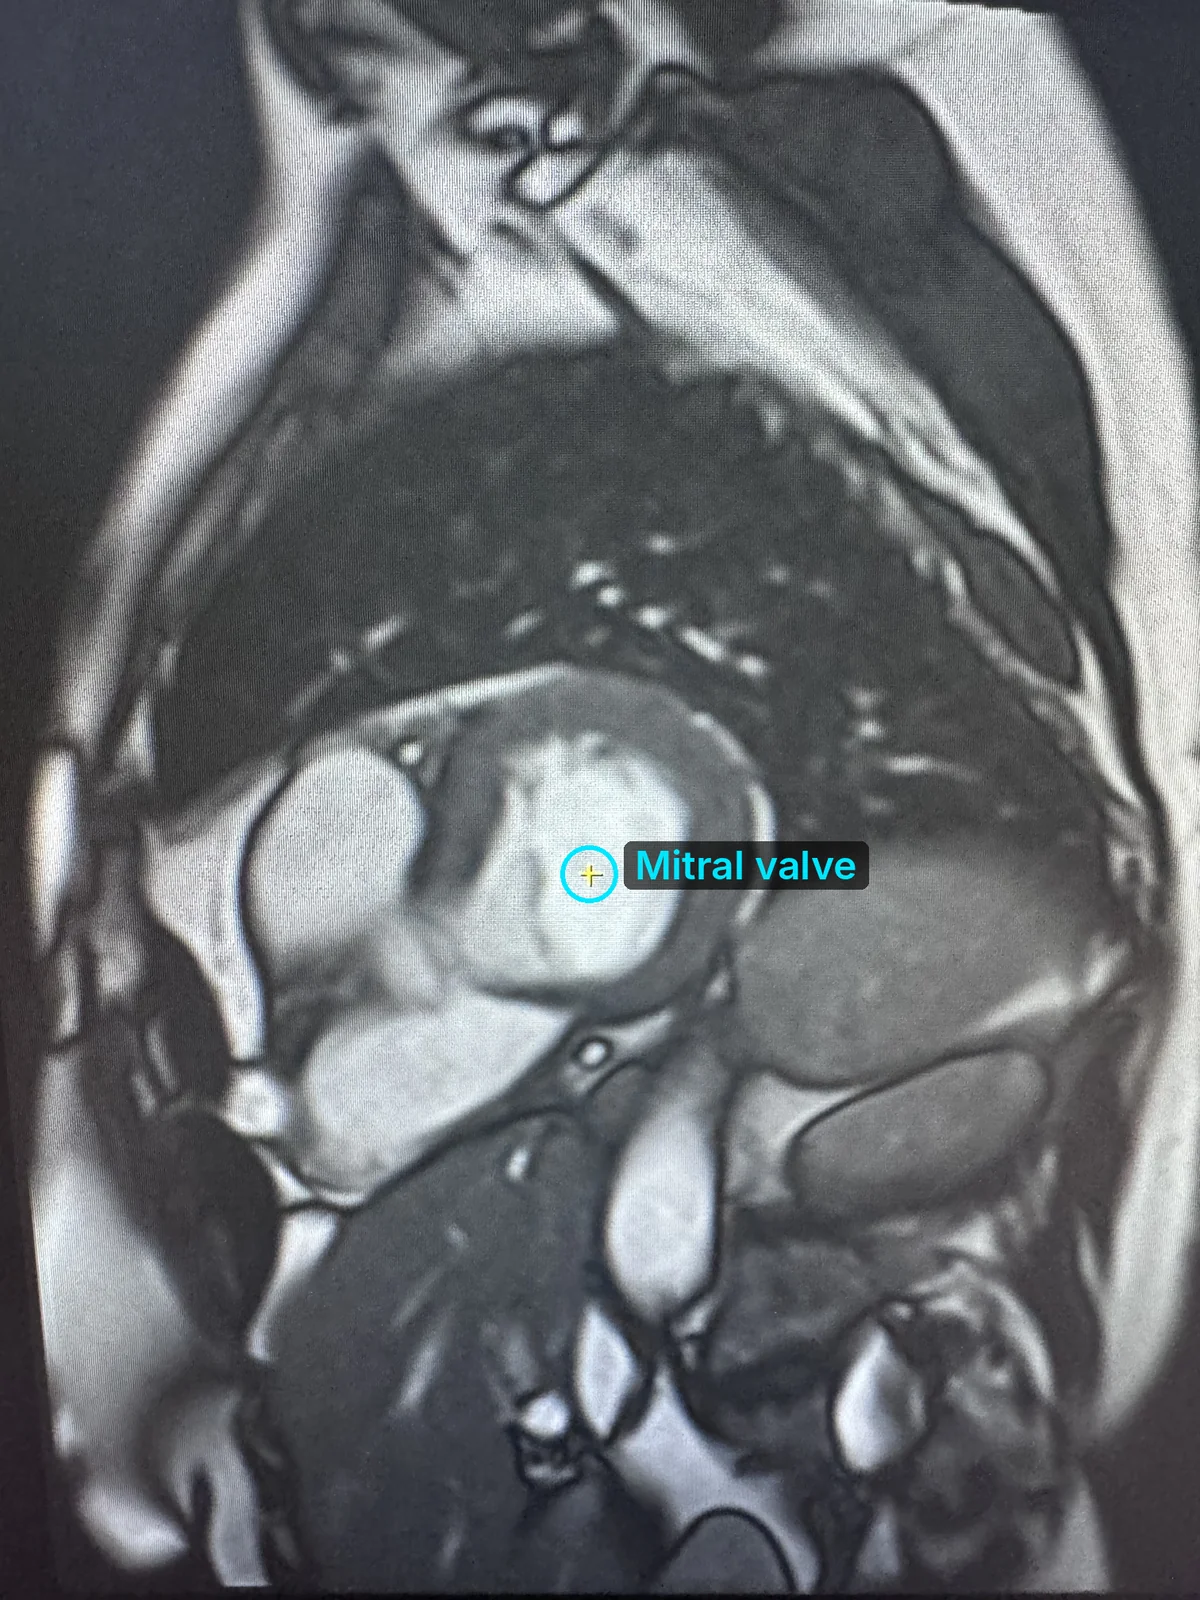
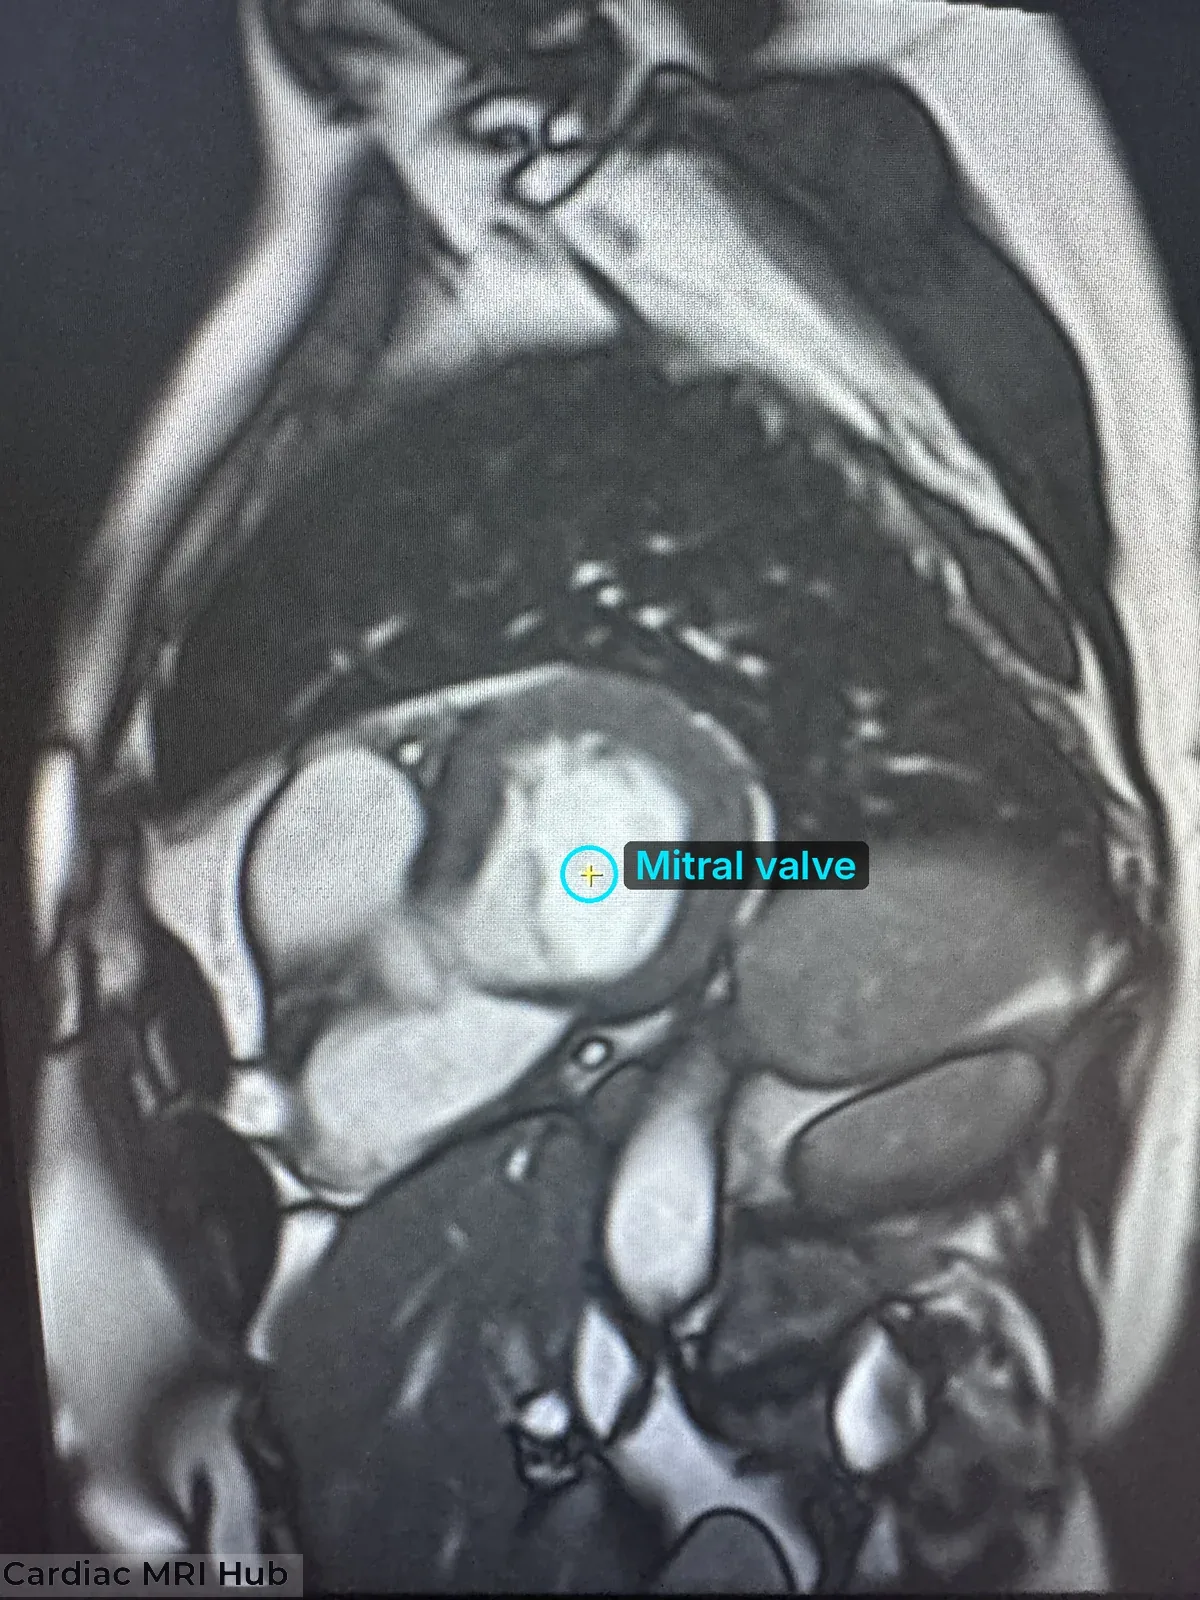
Cardiac MRI Hub label on the 7 pictures that lacked it (1.17.2)
- The five 3-point landmark pictures, the phase contrast magnitude/phase pair
  and the Start here montage now carry the bottom-left label from the site's
  Canva template; the two composites' small bottom-right labels are gone
- Tricuspid valve 3-point picture: its "Tricuspid valve" tag moved right so the
  label doesn't cover it
- scripts/add-label.py: the label recipe as a script, so every new picture can
  get the same label

Claude-Session: https://claude.ai/code/session_01PgY8a4bP6idgvpLuRUmq7v

Changed region(s): [[0.0, 0.9688, 0.2775, 1.0]]

diff --git a/sw.js b/sw.js
@@ -1,6 +1,6 @@
 // Service worker: makes the app open instantly and work offline.
 // Bump VERSION whenever app files (HTML/CSS/JS/icons) change so devices pick up the update.
-const VERSION = "1.17.1";
+const VERSION = "1.17.2";
 const SHELL_CACHE = `cmh-shell-${VERSION}`;
 const CONTENT_CACHE = "cmh-content"; // guides.json — network first, so new guides show up when online
 const IMAGE_CACHE = "cmh-images";    // guide images — cache first (file names are stable)

diff --git a/js/app.js b/js/app.js
@@ -9,7 +9,7 @@ import { prefs } from "./prefs.js";
 import { glyph, glyphFor, LOGO } from "./glyphs.js";
 import { searchGuides, searchSections, highlight, snippetAround, suggestions } from "./search.js";
 
-const APP_VERSION = "1.17.1";
+const APP_VERSION = "1.17.2";
 const IMAGE_CACHE = "cmh-images";
 const VIDEO_CACHE = "cmh-videos";
 const CONTENT_CACHE = "cmh-content"; // same names as in sw.js

diff --git a/scripts/add-label.py b/scripts/add-label.py
@@ -1,0 +1,54 @@
+#!/usr/bin/env python3
+"""Add the "Cardiac MRI Hub" label to the bottom left of a picture, matching the site's Canva template.
+
+Every picture that goes on the site gets this label (the owner's rule, Nov 2026). For a cine, label every frame
+before encoding.
+
+    python3 scripts/add-label.py picture.webp [out.webp]     # writes over the picture when no out is given
+
+Recipe, as a share of the image width: a white box at 19% opacity, flush left, 25.25% wide and 3.6% tall,
+0.25% above the bottom edge; "Cardiac MRI Hub" in Montserrat weight 650, colour RGB 12,12,18, 24.1% wide,
+0.2% in from the left, its top 0.45% below the box top.
+
+Needs Pillow and the Montserrat variable font (SIL Open Font License), e.g.
+    curl -L -o ~/fonts/Montserrat.ttf "https://raw.githubusercontent.com/google/fonts/main/ofl/montserrat/Montserrat%5Bwght%5D.ttf"
+Set MONTSERRAT to another path if it's elsewhere. WebP output is quality 82, as for the site's other pictures.
+"""
+import os, sys
+from PIL import Image, ImageDraw, ImageFont
+
+FONT = os.environ.get("MONTSERRAT", os.path.expanduser("~/fonts/Montserrat.ttf"))
+TEXT = "Cardiac MRI Hub"
+
+def font_for(width_px):
+    lo, hi = 4, 400
+    while lo < hi:  # the largest size whose ink is no wider than width_px
+        mid = (lo + hi + 1) // 2
+        f = ImageFont.truetype(FONT, mid); f.set_variation_by_axes([650])
+        l, t, r, b = f.getbbox(TEXT)
+        lo, hi = (mid, hi) if r - l <= width_px else (lo, mid - 1)
+    f = ImageFont.truetype(FONT, lo); f.set_variation_by_axes([650])
+    return f
+
+def add_label(im):
+    im = im.convert("RGB")
+    W, H = im.size
+    box_w, box_h = round(0.2525 * W), round(0.036 * W)
+    box_bottom = H - round(0.0025 * W)
+    box_top = box_bottom - box_h
+    over = Image.new("RGBA", im.size, (0, 0, 0, 0))
+    d = ImageDraw.Draw(over)
+    d.rectangle([0, box_top, box_w - 1, box_bottom - 1], fill=(255, 255, 255, round(0.19 * 255)))
+    f = font_for(0.241 * W)
+    l, t, r, b = f.getbbox(TEXT)
+    d.text((round(0.002 * W) - l, box_top + round(0.0045 * W) - t), TEXT, font=f, fill=(12, 12, 18, 255))
+    return Image.alpha_composite(im.convert("RGBA"), over).convert("RGB")
+
+if __name__ == "__main__":
+    if len(sys.argv) not in (2, 3):
+        sys.exit(__doc__)
+    src = sys.argv[1]
+    out = sys.argv[2] if len(sys.argv) == 3 else src
+    im = add_label(Image.open(src))
+    im.save(out, "WEBP", quality=82, method=6) if out.lower().endswith(".webp") else im.save(out)
+    print(f"labelled {out} ({im.width}x{im.height})")
